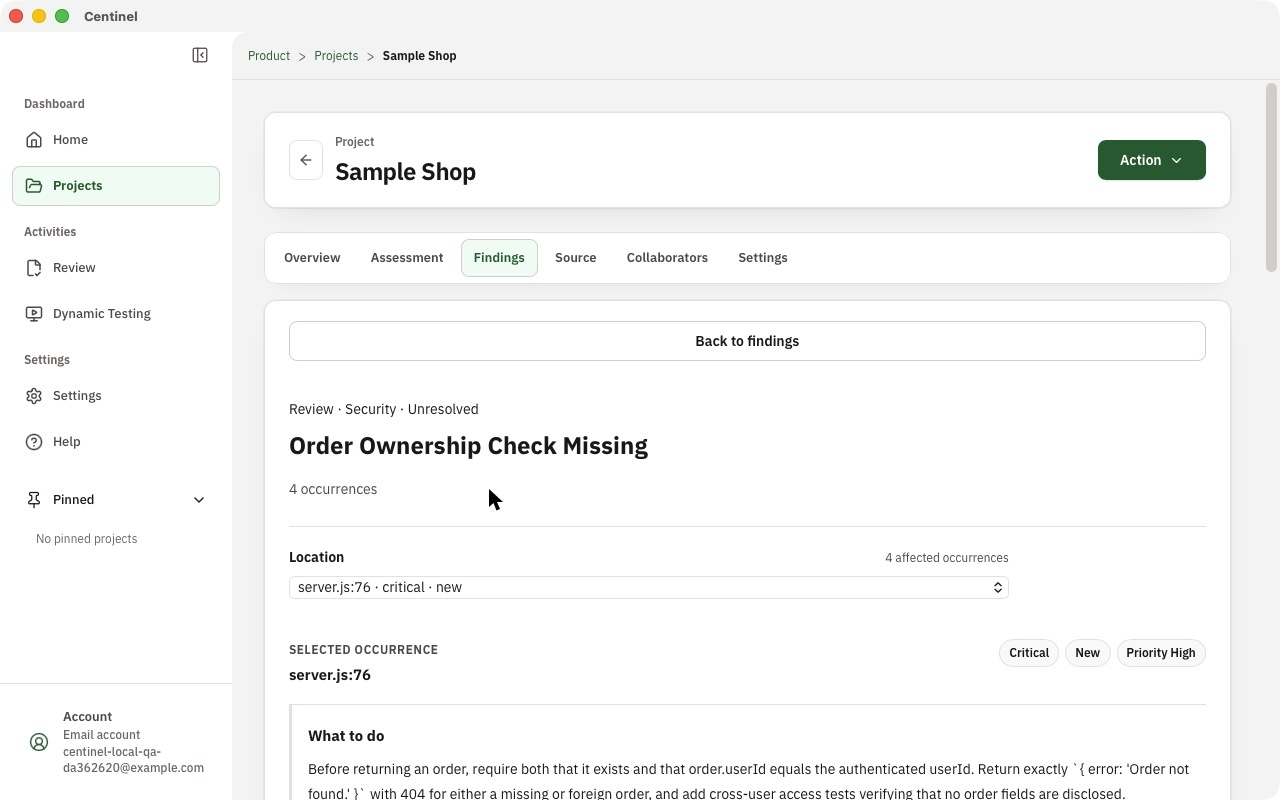
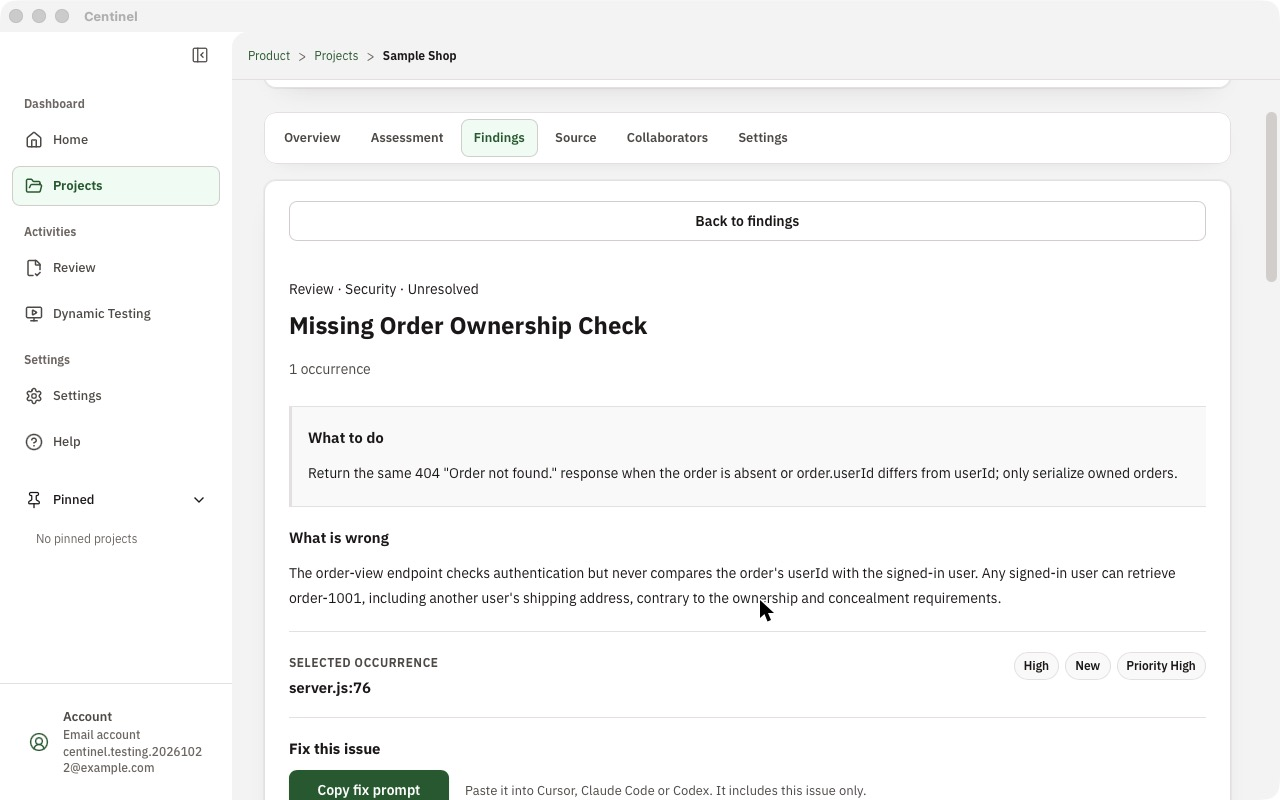
README screenshots from the 0.2 run: setup guide, findings and finding detail

diff --git a/README.md b/README.md
@@ -62,7 +62,9 @@ The first time you sign in, Home shows **Get started with the Sample Shop**. It 
 2. **Create the Sample Shop project.** Centinel copies the shop to `~/Library/Application Support/com.centinel.app/samples/sample-shop`, runs it at <http://localhost:4100> and imports its code and requirements.
 3. **Confirm its requirements.** Centinel extracts candidates from `docs/requirements.md`. Untick any you disagree with, then confirm the rest.
 4. **Start a Review and a browser test.** The Review goal is filled in for you, and so is a browser test, *Sign-in page shows the login form*. It opens <http://localhost:4100> and checks that "Sign in" is visible.
-5. **Open the report.** When the Review finishes (about four minutes), create the report and download the PDF.
+5. **Open the report.** When the Review finishes (about eleven minutes in our run), create the report and download the PDF.
+
+<p align="center"><img src="docs/screenshots/setup-guide.jpg" alt="The Get started with the Sample Shop guide on Home: Connect ChatGPT, Create the Sample Shop project, Confirm its requirements and Start a Review are done; step 5, Open the report, offers Create report" width="640"></p>
 
 Click **Skip** if you'd rather start with your own project. Centinel remembers that choice for your account. The steps below do the same thing by hand and explain each screen.
 
@@ -110,7 +112,7 @@ Centinel checks code against requirements you have confirmed, so it never treats
 1. Click **Review** in the sidebar.
 2. Name it `Pre-release review`, pick the **Sample Shop** project, and under **What should this Review verify?** write:
    > Check that sign-in, checkout and order viewing follow docs/requirements.md, especially privacy and server-side validation.
-3. Click **Start review**. A project this size takes about four minutes.
+3. Click **Start review**. A project this size took about eleven minutes in our run.
 
 <p align="center"><img src="docs/screenshots/start-review.jpg" alt="The Start a Review form with the review name, the Sample Shop project and the review goal filled in" width="640"></p>
 
@@ -120,19 +122,19 @@ When the Review finishes it waits for your decision:
 
 The yellow box lists evidence gaps. Here it says the 16 requirements are not yet linked to the code that implements them. That limits what Centinel can prove about coverage, but it does not mean the code is wrong.
 
-Open **Findings** to see the problems. In our run Centinel found all three planted bugs, plus a discount-code check that accepts more than it should:
+Open **Findings** to see the problems. In our 0.2 run Centinel found all three planted bugs, plus a possible hardcoded credential and an order-number collision:
 
-<p align="center"><img src="docs/screenshots/findings.jpg" alt="The project's Findings list: Order Ownership Check Missing, a possible hardcoded credential, Credential Enumeration and Server-Side Quantity Validation Missing, each with a risk and priority" width="640"></p>
+<p align="center"><img src="docs/screenshots/findings.jpg" alt="The project's Findings list with the summary 8 issue types, 8 flagged items, 11 occurrences, 21 evidence gaps and 6 readiness notes, showing a possible hardcoded credential, Missing Order Ownership Check, Missing Quantity Validation and Order Identifier Collision with their risk and priority" width="640"></p>
 
 | Requirement | What Centinel found |
 | --- | --- |
-| REQ-1 Sign-in | *Credential Enumeration*: the error message reveals which emails have accounts. |
-| REQ-3 Checkout | *Server-Side Quantity Validation Missing*: the server accepts any quantity, so totals can go negative. |
-| REQ-4 Order privacy | *Order Ownership Check Missing*: any signed-in user can open someone else's order and address. |
+| REQ-1 Sign-in | *Account Enumeration*: the error message reveals which emails have accounts. |
+| REQ-3 Checkout | *Missing Quantity Validation*: the server accepts any quantity, so totals can go negative. |
+| REQ-4 Order privacy | *Missing Order Ownership Check*: any signed-in user can open someone else's order and address. |
 
-Click a finding to see where it is, why it matters, the evidence and what to do:
+Click a finding to see what to do, where it is, why it matters and the evidence. **Copy fix prompt** copies a ready-made prompt for Cursor, Claude Code or Codex. After you fix it, **Re-check** runs a Review of your updated code against the earlier one; if the issue is no longer found, the finding says so and offers **I fixed it — mark as resolved**:
 
-<p align="center"><img src="docs/screenshots/finding-detail.jpg" alt="Finding detail for Order Ownership Check Missing at server.js line 76, with a What to do section" width="640"></p>
+<p align="center"><img src="docs/screenshots/finding-detail.jpg" alt="Finding detail for Missing Order Ownership Check at server.js line 76, with What to do, What is wrong and a Copy fix prompt button" width="640"></p>
 
 AI results vary between runs, so your titles and counts may differ slightly. The full answer key is in [`examples/sample-shop-answers.md`](examples/sample-shop-answers.md). Approve the Review or request changes once you have looked at the evidence.
 
